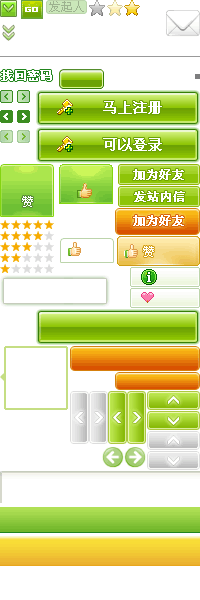
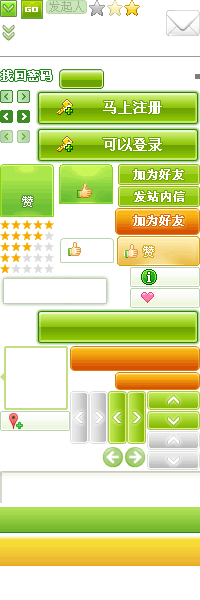
update css & image

Changed region(s): [[0.0, 0.69, 0.36, 0.72]]

diff --git a/public/stylesheets/home.css b/public/stylesheets/home.css
@@ -127,23 +127,23 @@ a:hover{color:#D63200;}
 #canvas .canvas_con .multibox .news-list{padding:11px 9px}
 /*#canvas .canvas_con .multibox .data-table01 th{border-bottom:1px #BBD2AA solid;}
 */
-.feed-message-box{margin-bottom:19px;position:relative;}
+.feed-message-box{margin-bottom:19px;position:relative}
 .feed-message-box h4{height:27px;line-height:27px;color:#000;overflow:hidden}
 .feed-message-box h4 span{color:#D63200}
 .feed-message-box li{padding-left:22px;height:30px;line-height:30px;background:url(../images/icons/homeIcons.gif) no-repeat 0 -73px;color:#000;overflow:hidden}
 .feed-message-box .feed-message{height:29px;line-height:29px;border-bottom:1px #E7F0E0 solid;overflow:hidden}
 .feed-message-box .feed-message a.icon-active{float:right;_display:inline-block;margin:10px 8px 0 0;}
 
-.feed-box{line-height:24px;word-spacing:5px}
+.feed-box{line-height:24px;word-spacing:5px;position:relative}
 .feed-box .tab{margin-bottom:20px;padding:0 16px;position:relative}
 /*.feed-box .feed-wrap{padding:0 10px;}
 */
 .feed-box .feed-list-box{margin-bottom:20px;}
-.feed-box .feed-img-list{margin-bottom:20px;position:relative}
+.feed-box .feed-img-list{margin-bottom:20px;position:relative;}
 
 .feed-list-box h4{color:#D63200}
-.feed-list-box .feed-list{padding-left:34px;_height:24px;min-height:24px;}
-.feed-list-box .feed-list .feed-icon{position:absolute;left:0;top:0;width:16px;height:16px;overflow:hidden;margin-top:3px}
+.feed-list-box .feed-list{padding-left:34px;_height:24px;min-height:24px}
+.feed-list-box .feed-list .feed-icon{/*position:absolute;left:0;top:0;*/float:left;width:16px;height:16px;overflow:hidden;margin-top:3px}
 /*.feed-list-box .feed-list .icon-friend{background-position:left -2px;}
 .feed-list-box .feed-list .icon-info{background-position:left -38px;}
 .feed-list-box .feed-list .icon-blog{background-position:left -116px;}
@@ -171,7 +171,7 @@ a:hover{color:#D63200;}
 .feed-list .comment-box textarea,.feed-list .word-box .textarea{width:270px;}
 .feed-list .comment-box .txt-add-comment,.feed-list .word-box .txt-add-comment{padding:5px;width:260px;height:13px;overflow:hidden}
 
-.feed-list .comment-box{padding:7px 8px;width:383px}
+.feed-list .comment-box{padding:7px 8px;width:383px;}
 .feed-list .comment-box .rows,.feed-list .word-box .rows{padding-bottom:5px;}
 .feed-list .comment-box .buttons .button,.feed-list .word-box .buttons .button{float:right;margin-left:1px;margin-right:4px;}
 .feed-list .comment-box .formcontent,.feed-list .word-box .formcontent{padding:3px 0;line-height:13px;}
@@ -210,12 +210,13 @@ a:hover{color:#D63200;}
 #leftsidebar .avatarbox ul.op li{float:left;width:75px;overflow:hidden;white-space:nowrap;margin:5px 2px;}
 
 #leftsidebar .profile-list{margin:5px 0 5px 30px;}
-#leftsidebar .info-list{margin-bottom:10px;padding:7px 13px;line-height:25px;}
+#leftsidebar .info-list{margin-bottom:10px;padding:7px 5px;line-height:25px;}
 #leftsidebar .info-list table{width:100%;}
 #leftsidebar .info-list td{vertical-align:top;height:25px;}
 #leftsidebar .info-list td.id{text-align:right; white-space:nowrap}
 #leftsidebar .info-list td.value{color:#25700D;word-spacing:5px}
 #leftsidebar .info-list td.value b{color:#D63200}
+
 
 #leftsidebar .formcontent{margin:5px 0;padding:0;}
 #leftsidebar .formcontent table{margin:0 auto;}
@@ -541,13 +542,15 @@ a:hover{color:#D63200;}
 .vote-box .vote-header-table .vote-content h5{font-size:14px;color:#D63200;margin-bottom:9px;}
 .vote-box .vote-header-table .vote-content h5 span{color:#333;font-size:12px;font-weight:normal}
 .vote-box .vote-header-table .vote-content h5 span span{color:#7E7F80}
-.vote-box .vote-header-table .vote-content p{padding-left:23px;color:#7E7F80}
+.vote-box .vote-header-table .vote-content p{color:#7E7F80}
 .vote-box .vote-header-table .status{padding-left:40px;width:96px}
 .vote-box .vote-header-table .btn{padding-right:0;width:70px;}
 
 .vote-box .vote-status-table{margin:10px auto;}
 .vote-box .vote-status-table td{padding:5px;line-height:20px;}
 .vote-box .vote-status-table .title{text-align:right;padding-right:2px;}
+.myblog .myblog-table .title div{padding-left:22px;height:21px;width:320px; white-space:nowrap;background:url(../images/icons/homeIcons.gif) no-repeat 0 -801px;overflow:hidden}
+
 .vote-box .vote-status-table .percent{width:211px;padding-left:2px;}
 .vote-box .vote-status-table .cb{width:22px;}
 .vote-box .vote-status-table .btn{text-align:right;width:56px}
@@ -633,17 +636,23 @@ a.icon-face{background:url(../images/icons/face-icon.gif) no-repeat;width:16px;h
 .jl-mcAvatar a{width:50px;height:50px;}
 .jl-fldbtn{margin-top:10px}
 
-.feed-box{position:relative}
-.feed-wrap .feed-list{padding-left:0}
+/*首页/个人/好友主页*/
+/*.home-wrap .icon-active{margin-left:30px;margin-left:10px !important;}
+*/
+.home-wrap .s-dialog{margin-right:30px}
+/*.home-wrap .feed-list-box .feed-list{padding-left:32px}
+*/
+.feed-wrap .feed-list,.home-wrap .feed-list{padding-left:0;}
 .feed-wrap .feed-list-box{margin:10px 0}
-.jl-list-con{margin-left:75px;padding-bottom:15px;line-height:28px;position:relative}
+.jl-list-con{margin-left:75px;padding-bottom:15px;line-height:28px;}
+.home-wrap .jl-list-con{margin-left:20px;}
 .feed-list .jl-list-con .word-box textarea{width:390px}
 .feed-box .feed-list-box{margin-bottom:10px;}
 .feed-list-box h4{background:url(../images/skin/skin2010.png) repeat-x 0 -47px;}
 .feed-list-box h4 span{background:#fff;line-height:19px;color:#999;padding:0 10px}
 .feed-list .s-img{margin:0 0 0 28px;_margin:0 0 0 14px}
 
-#roll-photo .roll-photo-list{float:left;width:408px;margin:0 3px;white-space:nowrap;overflow-x:hidden;position:relative;}
+#roll-photo .roll-photo-list{float:left;width:408px;margin:0 3px;white-space:nowrap;overflow-x:hidden;}
 #roll-photo .roll-photo-list span{position:relative;top:0;white-space:nowrap}
 #roll-photo .roll-photo-list a{margin:0 9px;}
 #roll-photo a img{width:100px;}
@@ -654,11 +663,6 @@ a.icon-face{background:url(../images/icons/face-icon.gif) no-repeat;width:16px;h
 span.jl-my-gold{background:url(../images/icons/homeIcons.png) no-repeat 0 -704px;padding-left:20px;margin-right:20px}
 a.jl-get-salary:link,a.jl-get-salary:visited,a.jl-get-salary:active{text-align:center;width:85px;height:18px;line-height:18px;background:url(../images/skin/skin2010.png) no-repeat -115px -372px;display:inline-block;color:#fff}
 
-/*个人/好友主页*/
-/*.home-wrap .icon-active{margin-left:30px;margin-left:10px !important;}
-*/
-.home-wrap .s-dialog{margin-right:30px}
-.home-wrap .feed-list-box .feed-list{padding-left:32px}
 
 
 /**/
@@ -959,7 +963,9 @@ dl.menu-op dd a{color:#333}
 .list-v2 .feed-list .feed-header .icon-active{margin-left:20px}
 
 /*视频 日志详细页面*/
-a.share-btn{background:url(../images/skin/skin2010.png) no-repeat -130px -288px;display:inline-block;width:70px;height:20px;line-height:20px;text-indent:28px;color:#508119}
+a.share-btn,a.concern-btn{background:url(../images/skin/skin2010.png) no-repeat;display:inline-block;width:70px;height:20px;line-height:20px;text-indent:28px;color:#508119}
+a.share-btn{background-position:-130px -288px}
+a.concern-btn{background-position:0 -411px}
 .detail-video-head,.detail-blog-head{background-color:#f8fcf6;border-top:1px solid #c2e29d;padding:10px 15px}
 .detail-video-head p.left,.detail-blog-head p.left{margin-top:6px}
 .detail-video-head strong,.detail-blog-head strong{color:#cc3300;font-size:14px;font-weight:400}
